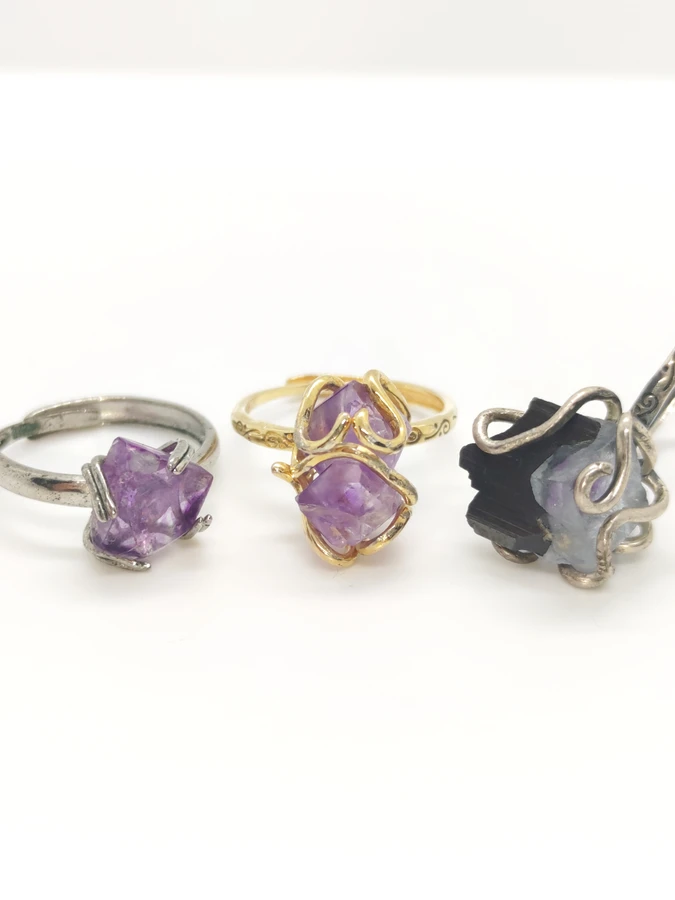
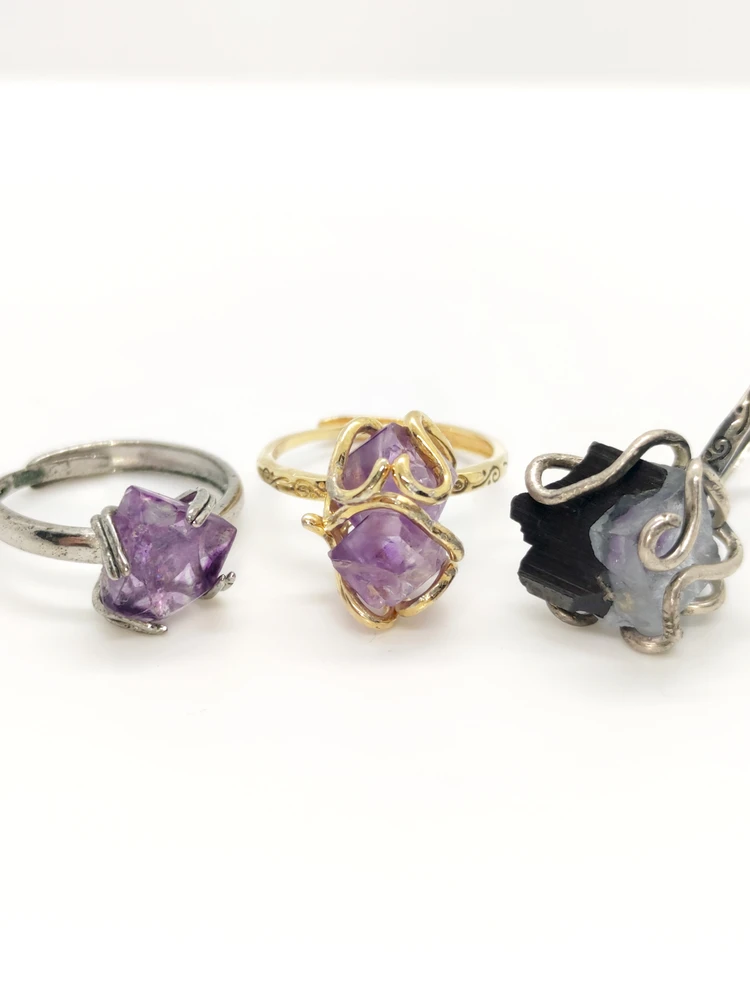
optimized some thumbnails

Changed region(s): [[0.6844, 0.4356, 0.9022, 0.6222], [0.2489, 0.56, 0.3111, 0.5911], [0.1556, 0.5911, 0.1867, 0.6222]]

diff --git a/jewelry.html b/jewelry.html
@@ -1394,7 +1394,7 @@
           {
             type: "image",
             src: "img/jewelry/lapis1.jpg",
-            thumbnail: "img/jewelry/lapis1thumb.jpg"
+            thumbnail: "img/jewelry/web-optimized/lapis1.webp"
           },
           {
             type: "image",
@@ -1418,7 +1418,7 @@
           {
             type: "image",
             src: "img/jewelry/fluorite1.jpg",
-            thumbnail: "img/jewelry/fluorite1thumb.jpg"
+            thumbnail: "img/jewelry/web-optimized/fluorite1.webp"
           },
           {
             type: "image",
@@ -1750,7 +1750,7 @@
         <div class="collection-grid">
       <div class="collection-card">
         <div class="collection-image">
-          <img src="img/jewelry/lapis1thumb.jpg" alt="Lapis Ring" />
+          <img src="img/jewelry/web-optimized/lapis1.webp" alt="Lapis Ring" />
         </div>
         <div class="collection-info">
           <h3 class="collection-title">Lapis Lazuli Ring</h3>
@@ -1763,7 +1763,7 @@
       
       <div class="collection-card">
         <div class="collection-image">
-          <img src="img/jewelry/fluorite1.jpg" alt="Purple Fluorite Ring" />
+          <img src="img/jewelry/web-optimized/fluorite1.webp" alt="Purple Fluorite Ring" />
           <div class="media-indicator">
             <i class="fas fa-film"></i> Video Available
           </div>
@@ -1779,7 +1779,7 @@
 
       <div class="collection-card">
         <div class="collection-image">
-          <img src="img/jewelry/sunstone1.jpg" alt="Sunstone Ring" />
+          <img src="img/jewelry/web-optimized/sunstone1.webp" alt="Sunstone Ring" />
           <div class="media-indicator">
             <i class="fas fa-film"></i> Video Available
           </div>
@@ -1795,11 +1795,11 @@
 
       <div class="collection-card">
         <div class="collection-image">
-          <img src="img/jewelry/mossagate1_white.jpg" alt="Moss Agate Ring" />
+          <img src="img/jewelry/web-optimized/mossagate1_white.webp" alt="Moss Agate Ring" />
         </div>
         <div class="collection-info">
           <h3 class="collection-title">Moss Agate Ring</h3>
-          <p class="collection-description">The forest forged into ring form.</p>
+          <p class="collection-description">The forest in stone.</p>
           <div class="collection-details">
             <button class="collection-btn">View Details</button>
           </div>
@@ -1808,7 +1808,7 @@
 
       <div class="collection-card">
         <div class="collection-image">
-          <img src="img/jewelry/charoite_white.jpg" alt="Charoite Pendant" />
+          <img src="img/jewelry/web-optimized/charoite_white.webp" alt="Charoite Pendant" />
         </div>
         <div class="collection-info">
           <h3 class="collection-title">Charoite Pendant</h3>

diff --git a/collections.html b/collections.html
@@ -451,7 +451,7 @@
           </div>
           <div class="item-images">
             <a href="#" class="gallery-item" data-type="image" data-src="img/jewelry/sunstone1.jpg" data-alt="sunstone ring">
-              <img src="img/jewelry/sunstone1.jpg" alt="sunstone ring" />
+              <img src="img/jewelry/web-optimized/sunstone1.webp" alt="sunstone ring" />
             </a>
             <a href="#" class="gallery-item" data-type="image" data-src="img/jewelry/moonstone1.jpg" data-alt="moonstone ring">
               <img src="img/jewelry/moonstone1.jpg" alt="moonstone ring" />
@@ -479,7 +479,7 @@
           </div>
           <div class="item-images">
             <a href="#" class="gallery-item" data-type="image" data-src="img/jewelry/chatuchak1.jpg" data-alt="Lapis & Charoite">
-              <img src="img/jewelry/chatuchak1.jpg" alt="Lapis & Charoite" />
+              <img src="img/jewelry/web-optimized/chatuchak1.webp" alt="Lapis & Charoite" />
             </a>
           </div>
         </article>
@@ -495,7 +495,7 @@
           </div>
           <div class="item-images">
             <a href="#" class="gallery-item" data-type="image" data-src="img/jewelry/fluoriterings.jpg" data-alt="fluorite rings">
-              <img src="img/jewelry/fluoriterings.jpg" alt="fluorite rings" />
+              <img src="img/jewelry/web-optimized/fluoriterings.webp" alt="fluorite rings" />
             </a>
           </div>
         </article>
